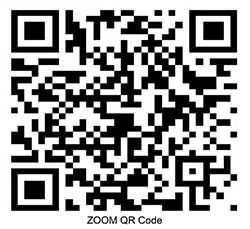
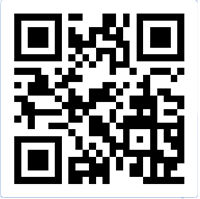
1

diff --git a/index.html b/index.html
@@ -227,7 +227,7 @@
             </h1>
             <a class="btn btn-light btn-wide btn-pill shadow-soft transition-3d-hover mb-2 mb-sm-0 mr-4 mt-3" href="https://zoom.us/webinar/register/WN_sEa8w2-yTpiYL720_E8cTQ" >March 19 - 20, 2021</a>
             <a id="popover" class="btn btn-indigo btn-wide btn-pill shadow-soft transition-3d-hover mt-3" rel="popover" data-content="" title="Join at Slido.com #87206">Q&A Platform</a>
-              <p><img class="max-w-15rem ml-4 mt-3" src="./static/barcodes/Registration.jpg"></p>
+              <p><img class="max-w-19rem ml-3 mt-3" src="./static/barcodes/Registration.png"></p>
 
 
 
